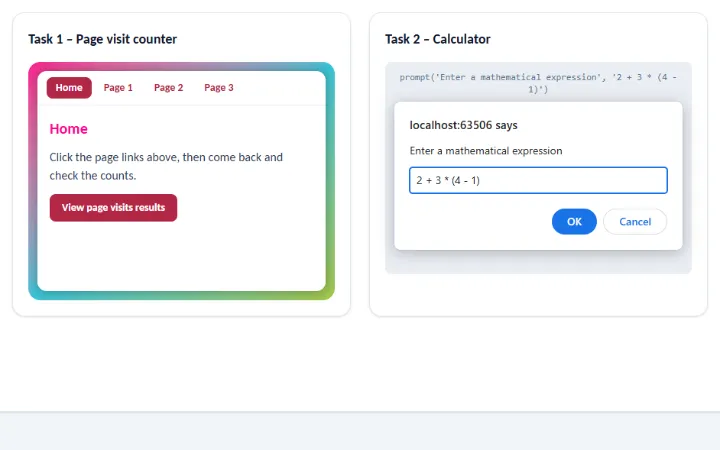
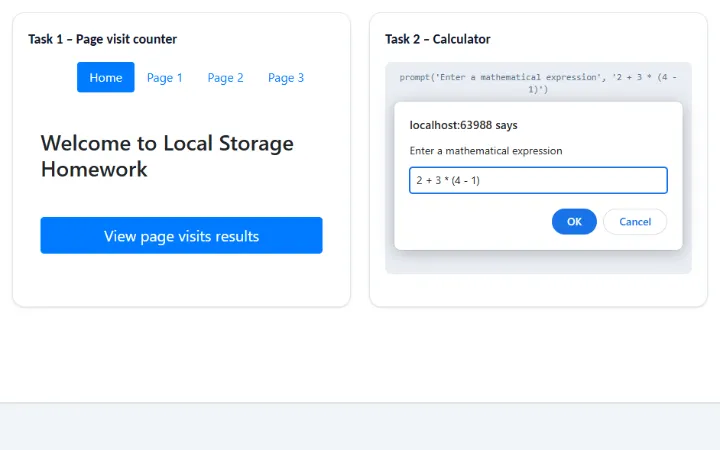
Give the HW11 visit counter its original Bootstrap look
The original page was a Bootstrap 4.5 template that could not be edited:
nav-pills, a "Welcome to Local Storage Homework" h3 and a large block
button in a 700px column. Rebuild it with the same sizes and colors, and
list the visit counts under the button, as the task sheet asks ("display
a list"), instead of an alert.

Changed region(s): [[0.0306, 0.1244, 0.4889, 0.6844], [0.0, 0.8711, 1.0, 0.9022], [0.6417, 0.2489, 0.6722, 0.28]]

diff --git a/src/homework/hw11-errors-storage/ErrorsStorage.tsx b/src/homework/hw11-errors-storage/ErrorsStorage.tsx
@@ -17,36 +17,40 @@ export default function ErrorsStorage() {
 }
 
 /**
- * A small website in the frame of the quiz (homework 08): the page links are counted in
- * localStorage, and the results come in an alert(), like in the original.
+ * The original page, rebuilt: it was a Bootstrap 4.5 template (nav-pills, an h3 and a large block
+ * button in a 700px column) that could not be edited, so the script added the results list under
+ * the button. It stays a white page in the dark theme too.
  */
 function VisitCounter() {
   return (
     <Panel title="Task 1 – Page visit counter">
-      <div className="rounded-2xl bg-linear-to-br from-[#fc098f] via-[#39c2d7] to-[#a3c644] p-2 sm:p-3">
-        <div className="min-h-72 overflow-hidden rounded-xl bg-white text-slate-700 shadow-[0_0_15px_rgba(0,0,0,0.35)]">
-          <nav className="flex flex-wrap gap-1 border-b border-slate-200 px-3 py-2">
-            <PageLink to={BASE} end>
-              Home
-            </PageLink>
-            {PAGES.map((page, index) => (
-              <PageLink key={page} to={`${BASE}/page/${index + 1}`} onClick={() => visitLink(page)}>
-                Page {index + 1}
+      <div className="rounded-lg bg-white font-bootstrap leading-normal text-[#212529]">
+        <div className="mx-auto w-full max-w-[700px] px-4 pb-px">
+          <ul className="mt-4 mb-12 ml-12 flex flex-wrap">
+            <li>
+              <PageLink to={BASE} end>
+                Home
               </PageLink>
+            </li>
+            {PAGES.map((page, index) => (
+              <li key={page}>
+                <PageLink to={`${BASE}/page/${index + 1}`} onClick={() => visitLink(page)}>
+                  Page {index + 1}
+                </PageLink>
+              </li>
             ))}
-          </nav>
-          <div className="p-4">
-            <Routes>
-              <Route index element={<VisitHome />} />
-              <Route path="page/:number" element={<VisitPage />} />
-            </Routes>
-          </div>
+          </ul>
+          <Routes>
+            <Route index element={<VisitHome />} />
+            <Route path="page/:number" element={<VisitPage />} />
+          </Routes>
         </div>
       </div>
     </Panel>
   )
 }
 
+/** Bootstrap's .nav-pills .nav-link. */
 function PageLink({
   to,
   end,
@@ -65,8 +69,8 @@ function PageLink({
       onClick={onClick}
       className={({ isActive }) =>
         cx(
-          'rounded-lg px-3 py-1 font-semibold text-sm',
-          isActive ? 'bg-[#b22746] text-white' : 'text-[#b22746] hover:bg-[#b22746]/10',
+          'block rounded px-4 py-2',
+          isActive ? 'bg-[#007bff] text-white' : 'text-[#007bff] hover:text-[#0056b3]',
         )
       }
     >
@@ -75,33 +79,30 @@ function PageLink({
   )
 }
 
+/** Bootstrap's h3 with mb-5. */
+const heading = 'mb-12 font-medium text-[1.75rem] leading-[1.2]'
+
 function VisitHome() {
   const [results, setResults] = useState<string[] | null>(null)
 
-  if (results) {
-    return (
-      <BrowserDialog
-        kind="alert"
-        call="alert(results)"
-        message={results.join('\n')}
-        autoFocus
-        onOk={() => setResults(null)}
-      />
-    )
-  }
-
   return (
-    <div className="flex flex-col gap-3">
-      <h3 className="text-xl font-bold text-[#fc098f]">Home</h3>
-      <p>Click the page links above, then come back and check the counts.</p>
+    <>
+      <h3 className={heading}>Welcome to Local Storage Homework</h3>
       <button
         type="button"
         onClick={() => setResults(viewResults())}
-        className="cursor-pointer self-start rounded-lg bg-[#b22746] px-4 py-2 text-sm font-semibold text-white hover:bg-[#8e244d]"
+        className="mb-12 block w-full cursor-pointer rounded-[0.3rem] border border-[#007bff] bg-[#007bff] px-4 py-2 text-[1.25rem] leading-normal text-white hover:border-[#0062cc] hover:bg-[#0069d9]"
       >
         View page visits results
       </button>
-    </div>
+      {results && (
+        <ul aria-label="Page visits" className="mb-4 list-disc pl-10">
+          {results.map((line) => (
+            <li key={line}>{line}</li>
+          ))}
+        </ul>
+      )}
+    </>
   )
 }
 
@@ -110,14 +111,16 @@ function VisitPage() {
   const page = PAGES[Number(number) - 1] as PageName | undefined
 
   return page ? (
-    <div className="flex flex-col gap-3">
-      <h3 className="text-xl font-bold text-[#fc098f]">Page {number}</h3>
-      <p>
-        Welcome to {page.replace('Page', 'Page ')}. This visit has been counted in localStorage.
+    <>
+      <h3 className={heading}>Welcome to Page {number}</h3>
+      <p className="mb-4">
+        Lorem ipsum dolor sit amet, consectetur adipiscing elit. Nulla ac justo ullamcorper,
+        porttitor tellus non, tristique purus. Donec ac arcu eu dui dignissim mattis. Integer porta
+        scelerisque tempor. Morbi id congue urna. Fusce ut maximus erat.
       </p>
-    </div>
+    </>
   ) : (
-    <p>There is no such page.</p>
+    <p className="mb-4">There is no such page.</p>
   )
 }
 

diff --git a/src/homework/hw11-errors-storage/ErrorsStorage.test.tsx b/src/homework/hw11-errors-storage/ErrorsStorage.test.tsx
@@ -15,18 +15,19 @@ function renderPage() {
 }
 
 describe('ErrorsStorage', () => {
-  it('counts the page links and alerts the results', async () => {
+  it('counts the page links and lists the results under the button', async () => {
     const user = userEvent.setup()
     renderPage()
 
     await user.click(screen.getByRole('link', { name: 'Page 2' }))
+    expect(screen.getByRole('heading', { name: 'Welcome to Page 2' })).toBeVisible()
     await user.click(screen.getByRole('link', { name: 'Page 2' }))
     await user.click(screen.getByRole('link', { name: 'Home' }))
     await user.click(screen.getByRole('button', { name: 'View page visits results' }))
 
-    expect(screen.getByText(/You visited Page2 2 time\(s\)/)).toBeVisible()
-    await user.click(screen.getAllByRole('button', { name: 'OK' })[0] as HTMLElement)
-    expect(screen.getByRole('button', { name: 'View page visits results' })).toBeVisible()
+    const list = screen.getByRole('list', { name: 'Page visits' })
+    expect(list).toHaveTextContent('You visited Page1 0 time(s)')
+    expect(list).toHaveTextContent('You visited Page2 2 time(s)')
   })
 
   it('calculates the expression of the prompt, then asks again', async () => {

diff --git a/src/homeworkList.ts b/src/homeworkList.ts
@@ -205,7 +205,7 @@ export const homeworkList: Homework[] = [
     ],
     kind: 'react',
     reactNotes:
-      'The pages of the visit counter are nested routes; the prompt() and alert() windows are drawn in the page. No eval: expressions go through a small recursive descent parser.',
+      'The visit counter keeps the look of the original Bootstrap page, its pages are nested routes; the calculator’s prompt() and alert() windows are drawn in the page. No eval: expressions go through a small recursive descent parser.',
   },
   {
     number: 12,

diff --git a/src/index.css b/src/index.css
@@ -15,6 +15,10 @@
 @theme {
   --font-sans: "Carlito", Calibri, "Segoe UI", ui-sans-serif, system-ui, sans-serif;
   --font-mono: Consolas, "Courier New", ui-monospace, monospace;
+  /* Bootstrap 4's system font stack, for the homework that was built on Bootstrap. */
+  --font-bootstrap:
+    -apple-system, BlinkMacSystemFont, "Segoe UI", Roboto, "Helvetica Neue", Arial, "Noto Sans",
+    sans-serif;
 
   /* Buttons and other controls (white text on it). */
   --color-accent: #0f7c90;
